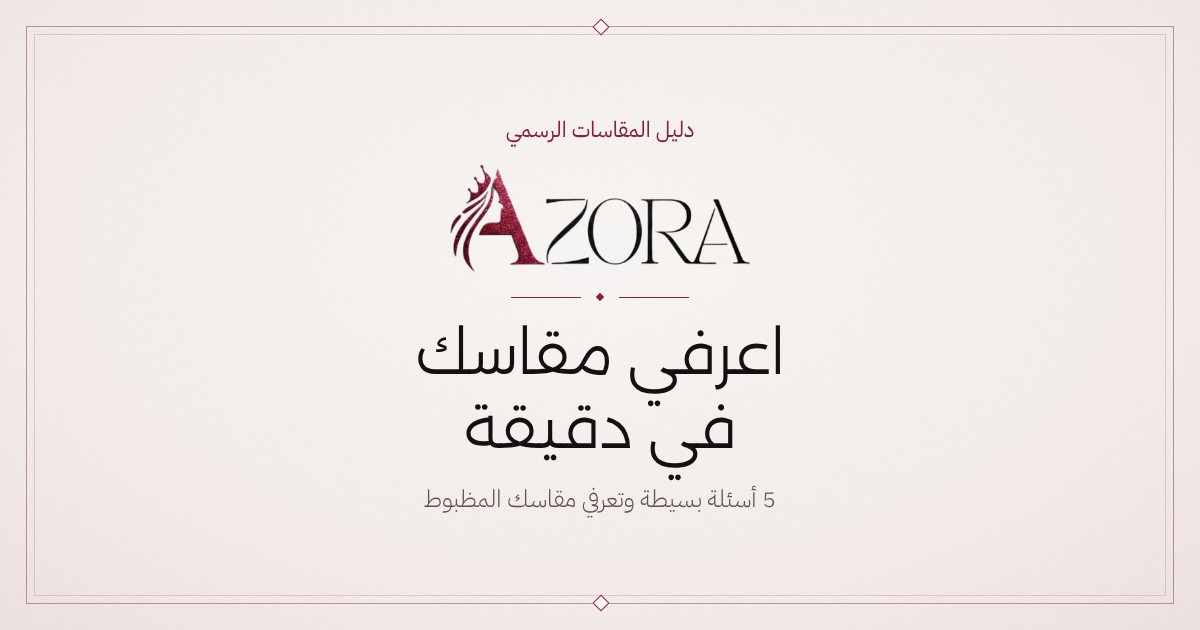
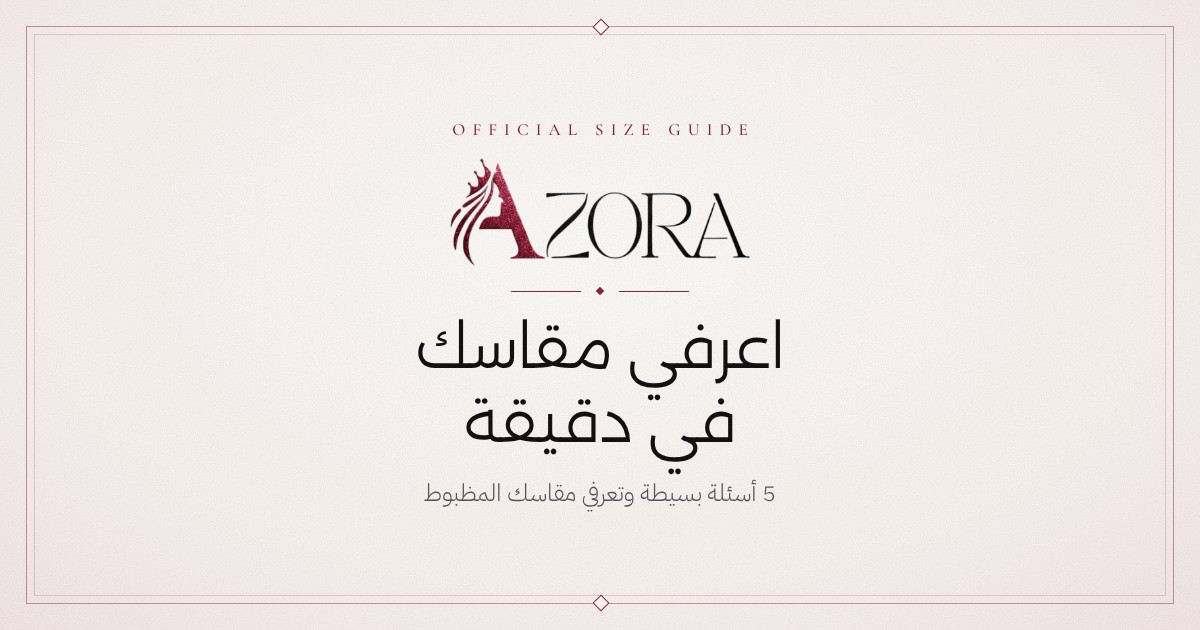
Link card: keep English eyebrow, square-safe
Claude-Session: https://claude.ai/code/session_01Np5cGEYD3wXAg8bjutYuTe

diff --git a/index.html b/index.html
@@ -15,8 +15,8 @@
 <meta property="og:url" content="https://size.azoraofficial.com/">
 <meta property="og:title" content="أزورا | اعرفي مقاسك">
 <meta property="og:description" content="جاوبي على 5 أسئلة بسيطة وتعرفي مقاسك المظبوط في أي قطعة من أزورا.">
-<meta property="og:image" content="https://size.azoraofficial.com/og.jpg?v=5">
-<meta property="og:image:secure_url" content="https://size.azoraofficial.com/og.jpg?v=5">
+<meta property="og:image" content="https://size.azoraofficial.com/og.jpg?v=6">
+<meta property="og:image:secure_url" content="https://size.azoraofficial.com/og.jpg?v=6">
 <meta property="og:image:type" content="image/jpeg">
 <meta property="og:image:width" content="1200">
 <meta property="og:image:height" content="630">
@@ -24,7 +24,7 @@
 <meta name="twitter:card" content="summary_large_image">
 <meta name="twitter:title" content="أزورا | اعرفي مقاسك">
 <meta name="twitter:description" content="جاوبي على 5 أسئلة بسيطة وتعرفي مقاسك المظبوط في أي قطعة من أزورا.">
-<meta name="twitter:image" content="https://size.azoraofficial.com/og.jpg?v=5">
+<meta name="twitter:image" content="https://size.azoraofficial.com/og.jpg?v=6">
 <link rel="preconnect" href="https://fonts.googleapis.com">
 <link rel="stylesheet" href="https://fonts.googleapis.com/css2?family=IBM+Plex+Sans+Arabic:wght@300;400;500;600&display=swap">
 <style>
